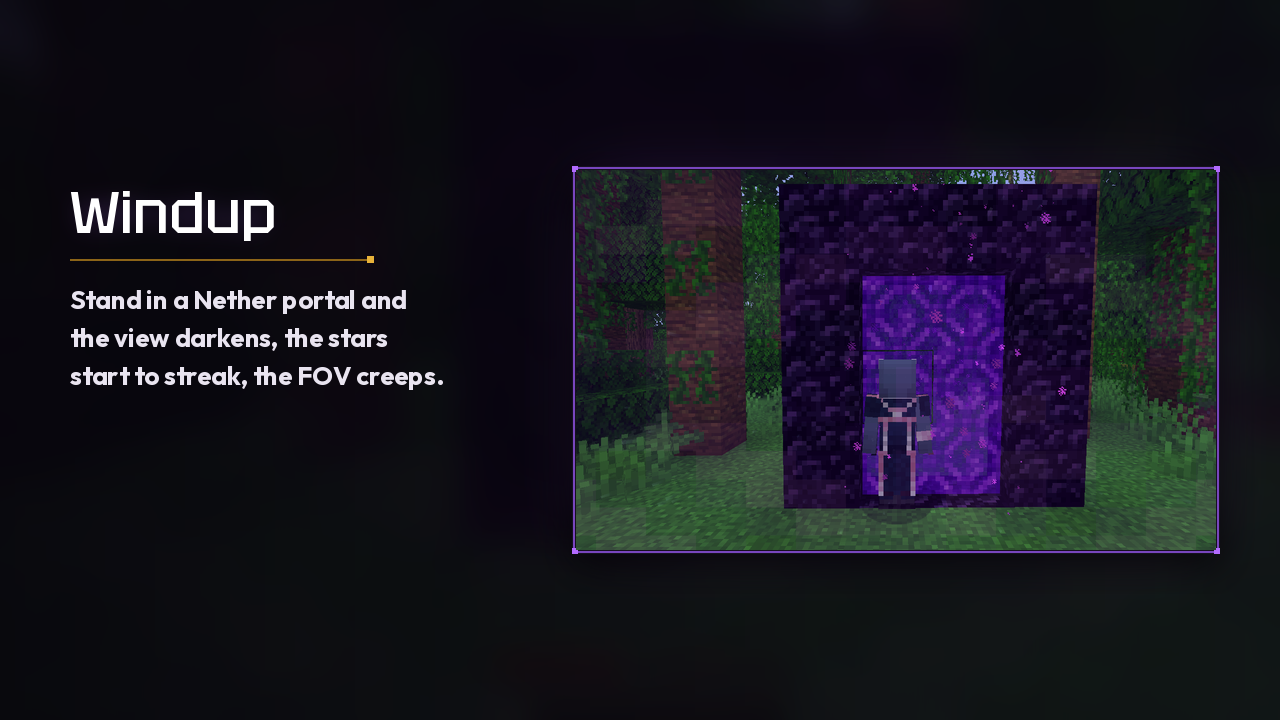
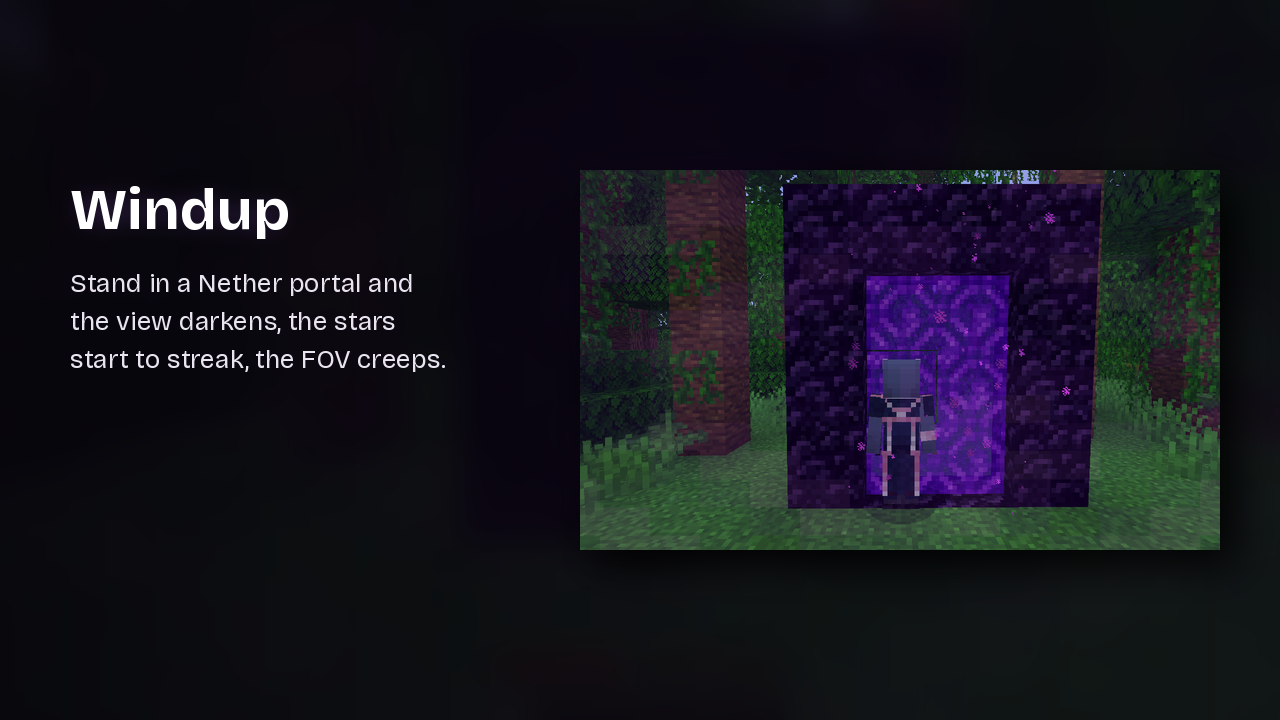
Listing art: new font, no title line, no frame, drop shadow

diff --git a/tools/listing.py b/tools/listing.py
@@ -9,8 +9,8 @@ from PIL import Image, ImageDraw, ImageEnhance, ImageFilter, ImageFont
 SH, OUT = sys.argv[1], sys.argv[2]
 os.makedirs(OUT, exist_ok=True)
 FD = '/mnt/skills/examples/canvas-design/canvas-fonts/'
-TITLE = lambda s: ImageFont.truetype(FD + 'Tektur-Medium.ttf', s)
-BODY = lambda s: ImageFont.truetype(FD + 'Outfit-Bold.ttf', s)
+TITLE = lambda s: ImageFont.truetype(FD + 'BricolageGrotesque-Bold.ttf', s)
+BODY = lambda s: ImageFont.truetype(FD + 'BricolageGrotesque-Regular.ttf', s)
 W, H = 1280, 720
 GOLD, GOLD_DIM = (232, 178, 58), (140, 100, 24)
 FRAME, FRAME_DARK = (120, 70, 190), (22, 16, 32)
@@ -37,23 +37,15 @@ def window(img, w, crop=None):
     if crop:
         img = img.crop(crop)
     h = round(img.height * w / img.width)
-    img = img.resize((w, h), Image.LANCZOS)
-    f = Image.new('RGBA', (w + 8, h + 8), FRAME_DARK + (255,))
-    d = ImageDraw.Draw(f)
-    d.rectangle([1, 1, w + 6, h + 6], outline=FRAME + (255,), width=2)
-    for x, y in [(0, 0), (w + 2, 0), (0, h + 2), (w + 2, h + 2)]:
-        d.rectangle([x, y, x + 5, y + 5], fill=PURPLE + (255,))
-    f.paste(img, (4, 4))
-    return f
+    return img.resize((w, h), Image.LANCZOS).convert('RGBA')
 
 
-def place(canvas, win, x, y, glow=PURPLE):
-    g = Image.new('RGBA', (win.width + 160, win.height + 160), (0, 0, 0, 0))
-    ImageDraw.Draw(g).rectangle([80, 80, 80 + win.width, 80 + win.height], fill=glow + (70,))
-    canvas.alpha_composite(g.filter(ImageFilter.GaussianBlur(40)), (x - 80, y - 80))
-    sh = Image.new('RGBA', (win.width + 80, win.height + 80), (0, 0, 0, 0))
-    ImageDraw.Draw(sh).rectangle([40, 50, 40 + win.width, 50 + win.height], fill=(0, 0, 0, 200))
-    canvas.alpha_composite(sh.filter(ImageFilter.GaussianBlur(18)), (x - 40, y - 40))
+def place(canvas, win, x, y, glow=None):
+    """Screenshot with a soft drop shadow, offset down and right."""
+    pad, off = 60, 14
+    sh = Image.new('RGBA', (win.width + pad * 2, win.height + pad * 2), (0, 0, 0, 0))
+    ImageDraw.Draw(sh).rectangle([pad + off, pad + off, pad + off + win.width, pad + off + win.height], fill=(0, 0, 0, 235))
+    canvas.alpha_composite(sh.filter(ImageFilter.GaussianBlur(20)), (x - pad, y - pad))
     canvas.alpha_composite(win, (x, y))
 
 
@@ -89,9 +81,7 @@ def text_block(canvas, x, y, title, lines, tsize=60):
         brand_text(canvas, (x, y), TITLE(tsize), radius=14, strength=170)
     else:
         glow_text(canvas, (x, y), title, TITLE(tsize), radius=14, strength=160)
-    y += tsize + 26
-    trace(canvas, x, x + 300, y)
-    y += 24
+    y += tsize + 34
     d = ImageDraw.Draw(canvas)
     for ln in lines:
         d.text((x, y), ln, font=BODY(26), fill=TEXT + (255,))
@@ -189,9 +179,8 @@ def banner(ic):
     c.alpha_composite(st, (BW - st.width, (BH - st.height) // 2))
     c.alpha_composite(ic.resize((320, 320), Image.LANCZOS), (60, 40))
     brand_text(c, (400, 70), TITLE(124), radius=22, strength=200)
-    trace(c, 404, 1000, 238)
-    ImageDraw.Draw(c).text((404, 262), 'Dimension travel at hyperspeed.', font=BODY(40), fill=TEXT + (255,))
-    chips(c, 406, 330)
+    ImageDraw.Draw(c).text((404, 236), 'Dimension travel at hyperspeed.', font=BODY(42), fill=TEXT + (255,))
+    chips(c, 406, 310)
     save(c, 'banner.png')
 
 
